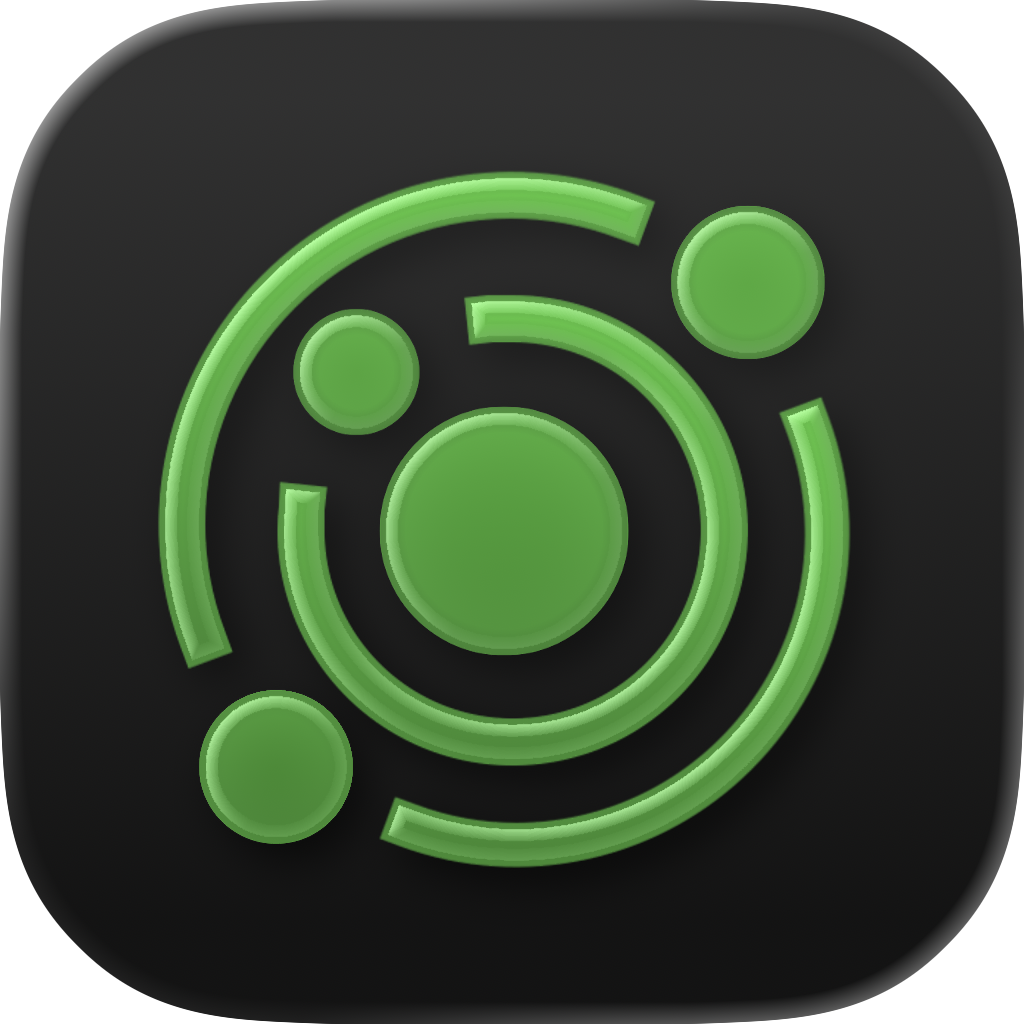
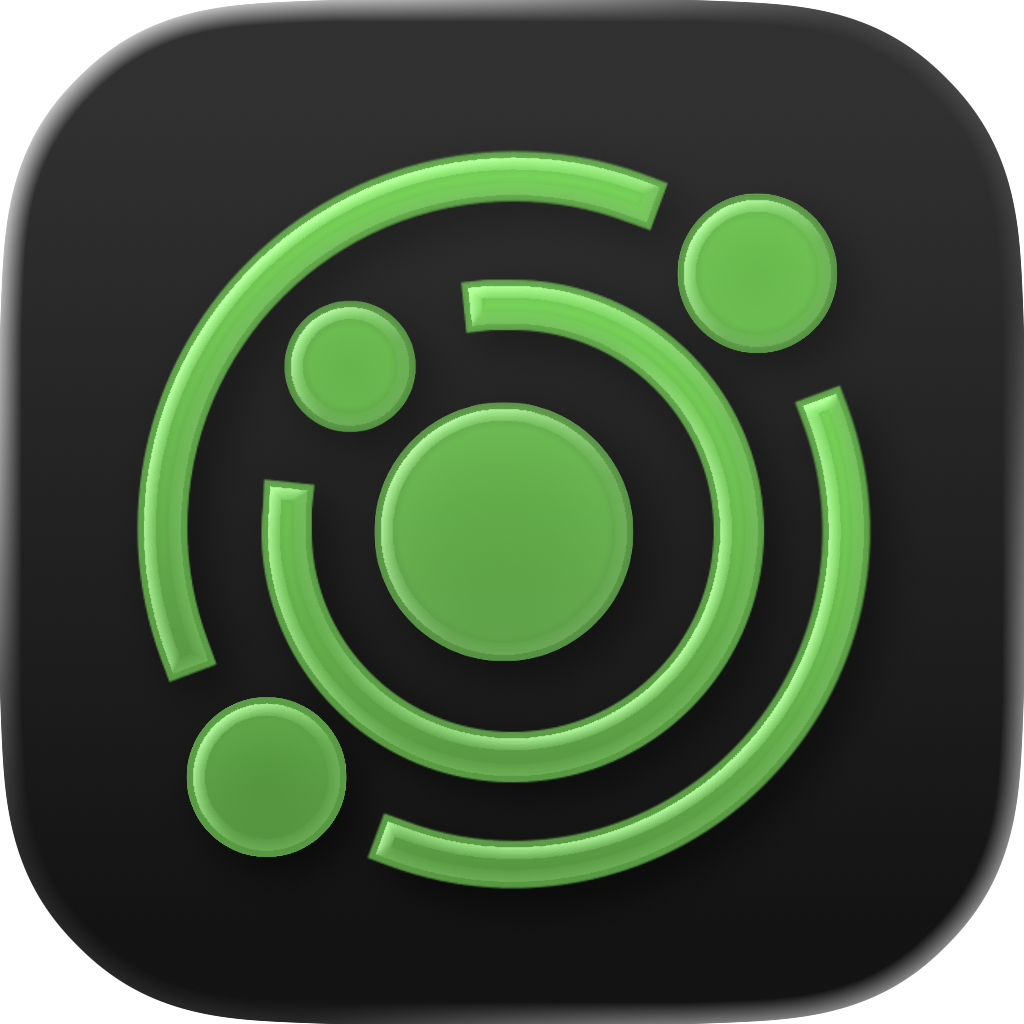
feat: estado del proceso en ProcessCard, push notifications background y iconos actualizados
- Implementar badge de estado SECOP II en ProcessCard (Publicado, Adjudicado, En evaluacion, Cancelado, etc.)
- Mejorar payload push con _contentAvailable y mutableContent para iOS background
- Usar priority HIGH en notificaciones locales Android
- Crear migracion pg_cron para check-alerts cada 30 minutos
- Actualizar iconos iOS

diff --git a/src/components/ProcessCard.tsx b/src/components/ProcessCard.tsx
@@ -37,32 +37,42 @@ export const ProcessCard: React.FC<ProcessCardProps> = ({
   const fechaCierreRaw = process.fecha_de_recepcion_de;
   const fechaCierre = fechaCierreRaw ? parseISO(fechaCierreRaw) : null;
 
-  // 3. ESTADO RESUMEN
-  const estadoResumen = process.estado_resumen;
+  // 3. ESTADO DEL PROCESO (mapeo a estados SECOP II)
+  const getEstadoProceso = (): { label: string; color: string; bg: string; icon: string } => {
+    const estadoProc = process.estado_del_procedimiento?.toLowerCase() || "";
+    const resumen = process.estado_resumen?.toLowerCase() || "";
+    const adjudicado = process.adjudicado === "Si" || process.adjudicado === "Sí" || resumen.includes("adjudicado");
 
-  const getEstadoColor = (estado?: string) => {
-    if (!estado || estado === "No Definido")
-      return { bg: "rgba(142, 142, 147, 0.08)", text: colors.textTertiary };
-    const lower = estado.toLowerCase();
-    // Adjudicado / Seleccionado → azul
-    if (lower.includes("adjudicado") || lower === "seleccionado")
-      return { bg: "rgba(0, 122, 255, 0.12)", text: "#007AFF" };
-    // Abierto para ofertar → verde
-    if (lower.includes("oferta") || lower === "publicado" || lower === "abierto")
-      return { bg: "rgba(48, 209, 88, 0.12)", text: colors.success };
-    // En evaluación → naranja
-    if (lower.includes("observacion") || lower.includes("concurso") || lower.includes("calificaci") || lower === "evaluación")
-      return { bg: "rgba(255, 149, 0, 0.10)", text: colors.warning };
-    // Cancelado / Suspendido → rojo
-    if (lower.includes("cancelado") || lower.includes("desierto") || lower === "suspendido")
-      return { bg: "rgba(255, 59, 48, 0.10)", text: colors.danger };
-    // Borrador / En aprobación → gris
-    if (lower === "borrador" || lower.includes("aprobaci"))
-      return { bg: "rgba(142, 142, 147, 0.10)", text: colors.textTertiary };
-    return { bg: "rgba(142, 142, 147, 0.08)", text: colors.textSecondary };
+    // Cancelado
+    if (estadoProc === "cancelado")
+      return { label: "Cancelado", color: colors.danger, bg: "rgba(255, 59, 48, 0.10)", icon: "close-circle" };
+    // Suspendido
+    if (estadoProc === "suspendido")
+      return { label: "Suspendido", color: colors.warning, bg: "rgba(255, 149, 0, 0.10)", icon: "pause-circle" };
+    // Borrador
+    if (estadoProc === "borrador")
+      return { label: "Borrador", color: colors.textTertiary, bg: "rgba(142, 142, 147, 0.10)", icon: "document-outline" };
+    // Adjudicado / Contratado
+    if (adjudicado || estadoProc === "seleccionado")
+      return { label: "Adjudicado", color: "#007AFF", bg: "rgba(0, 122, 255, 0.12)", icon: "checkmark-circle" };
+    // En evaluación
+    if (estadoProc === "evaluación")
+      return { label: "En evaluación", color: colors.warning, bg: "rgba(255, 149, 0, 0.10)", icon: "hourglass-outline" };
+    // En aprobación
+    if (estadoProc === "en aprobación" || estadoProc === "aprobado")
+      return { label: "En aprobación", color: colors.warning, bg: "rgba(255, 149, 0, 0.10)", icon: "time-outline" };
+    // Publicado / Abierto
+    if (estadoProc === "publicado" || estadoProc === "abierto")
+      return { label: "Publicado", color: colors.success, bg: "rgba(48, 209, 88, 0.12)", icon: "megaphone-outline" };
+    // Desierto
+    if (resumen.includes("desierto"))
+      return { label: "Desierto", color: colors.textTertiary, bg: "rgba(142, 142, 147, 0.10)", icon: "remove-circle-outline" };
+
+    // Fallback: no mostrar badge
+    return { label: "", color: colors.textTertiary, bg: "rgba(142, 142, 147, 0.08)", icon: "help-circle-outline" };
   };
 
-  const estadoStyle = getEstadoColor(estadoResumen);
+  const estadoProceso = getEstadoProceso();
 
   const styles = createStyles(colors, mainColor);
 
@@ -97,20 +107,21 @@ export const ProcessCard: React.FC<ProcessCardProps> = ({
             {typeConfig.label}
           </Text>
         </View>
-        {estadoResumen && estadoResumen !== "No Definido" && (
+        {estadoProceso.label !== "" && (
           <View style={[
             styles.estadoBadge,
-            { backgroundColor: estadoStyle.bg },
+            { backgroundColor: estadoProceso.bg },
           ]}>
-            <View style={[
-              styles.estadoDot,
-              { backgroundColor: estadoStyle.text },
-            ]} />
+            <Ionicons
+              name={estadoProceso.icon as any}
+              size={12}
+              color={estadoProceso.color}
+            />
             <Text style={[
               styles.estadoText,
-              { color: estadoStyle.text },
+              { color: estadoProceso.color },
             ]}>
-              {estadoResumen}
+              {estadoProceso.label}
             </Text>
           </View>
         )}
@@ -240,11 +251,6 @@ const createStyles = (colors: any, mainColor: string) =>
       paddingVertical: spacing.xs,
       borderRadius: 100,
       gap: scale(4),
-    },
-    estadoDot: {
-      width: scale(6),
-      height: scale(6),
-      borderRadius: scale(3),
     },
     estadoText: {
       ...typography.caption2,

diff --git a/src/services/alertBackgroundService.ts b/src/services/alertBackgroundService.ts
@@ -130,7 +130,8 @@ export async function checkAlertsForUser(userId: string): Promise<number> {
                   newProcessIds: newIds.slice(0, 10),
                   processSummaries,
                 },
-                sound: true,
+                sound: "default",
+                priority: Notifications.AndroidNotificationPriority.HIGH,
               },
               trigger: null,
             });
@@ -202,7 +203,8 @@ export async function checkObligationReminders(userId: string): Promise<number> 
                 obligationId: obl.id,
                 processId: obl.process_id,
               },
-              sound: true,
+              sound: "default",
+              priority: Notifications.AndroidNotificationPriority.HIGH,
             },
             trigger: null,
           });

diff --git a/supabase/functions/check-alerts/index.ts b/supabase/functions/check-alerts/index.ts
@@ -148,6 +148,8 @@ async function sendExpoPush(
         channelId: "secop-alerts",
         priority: "high",
         badge: 1,
+        _contentAvailable: true,
+        mutableContent: true,
       }),
     });
 
